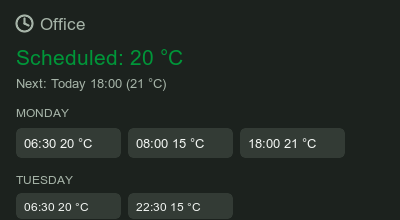
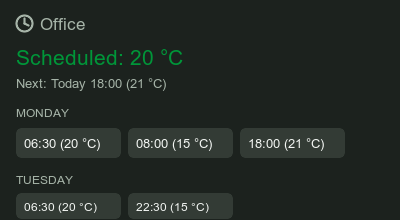
fix(room-schedule): handle live hub heating schedule format

diff --git a/lib/wiser-room-schedule.ts b/lib/wiser-room-schedule.ts
@@ -15,16 +15,15 @@ export interface RoomScheduleDay {
   slots: RoomScheduleSlot[];
 }
 
-function timeMinutes(value: unknown, unit: 'clock' | 'minutes'): number | null {
+function timeMinutes(value: unknown): number | null {
   if (typeof value !== 'number' || !Number.isInteger(value) || value < 0) return null;
-  if (unit === 'minutes') return value < 1440 ? value : null;
   const hours = Math.floor(value / 100);
   const minutes = value % 100;
   return hours < 24 && minutes < 60 ? hours * 60 + minutes : null;
 }
 
-function slot(time: unknown, degrees: unknown, unit: 'clock' | 'minutes'): RoomScheduleSlot | null {
-  const minutes = timeMinutes(time, unit);
+function slot(time: unknown, degrees: unknown): RoomScheduleSlot | null {
+  const minutes = timeMinutes(time);
   if (minutes === null || typeof degrees !== 'number' || !Number.isFinite(degrees)) return null;
   const temperature = validTemperatureFromApi(degrees);
   if (temperature === null && degrees !== -200) return null;
@@ -41,10 +40,10 @@ function daySlots(value: unknown): RoomScheduleSlot[] {
   if (Array.isArray(day.SetPoints)) {
     slots = day.SetPoints.map((item: unknown) => {
       const point = item as Record<string, unknown> | null;
-      return point ? slot(point.Time, point.DegreesC, 'clock') : null;
+      return point ? slot(point.Time, point.DegreesC) : null;
     }).filter((item): item is RoomScheduleSlot => item !== null);
   } else if (Array.isArray(day.Time) && Array.isArray(day.DegreesC)) {
-    slots = day.Time.map((time: unknown, index: number) => slot(time, (day.DegreesC as unknown[])[index], 'minutes'))
+    slots = day.Time.map((time: unknown, index: number) => slot(time, (day.DegreesC as unknown[])[index]))
       .filter((item): item is RoomScheduleSlot => item !== null);
   }
   return slots.sort((a, b) => a.minutes - b.minutes);

diff --git a/test/room-schedule.test.ts b/test/room-schedule.test.ts
@@ -11,8 +11,7 @@ import type { WiserSchedule } from '../lib/wiser-types';
 
 const schedule = {
   id: 3,
-  Type: 'Heating',
-  Monday: { Time: [390, 480, 1080], DegreesC: [210, 150, 200] },
+  Monday: { Time: [630, 800, 1800], DegreesC: [210, 150, 200] },
   Tuesday: { SetPoints: [{ Time: 630, DegreesC: 215 }, { Time: 2230, DegreesC: -200 }] },
 } as WiserSchedule;
 const apiModule: { exports: { getSchedule?: (args: { homey: unknown; params: { deviceId: string } }) => Promise<Record<string, unknown>> } } = { exports: {} };
@@ -39,7 +38,7 @@ function makeHomey(domain: Record<string, unknown> | null, available = true) {
 }
 
 describe('room schedule parsing', () => {
-  it('renders minute-of-day arrays and older clock SetPoints, including Off', () => {
+  it('renders live HHMM arrays and older SetPoints, including Off', () => {
     expect(roomScheduleDays(schedule)).toEqual([
       {
         day: 'Monday',
@@ -70,7 +69,7 @@ describe('room schedule parsing', () => {
   });
 
   it('rejects malformed slots and sorts remaining changes', () => {
-    expect(roomScheduleDays({ id: 1, Monday: { Time: [1080, 1500, 390, 480], DegreesC: [200, 210, 2000, 150] } } as WiserSchedule))
+    expect(roomScheduleDays({ id: 1, Monday: { Time: [1800, 2500, 390, 800], DegreesC: [200, 210, 2000, 150] } } as WiserSchedule))
       .toEqual([{
         day: 'Monday',
         slots: [

diff --git a/widgets/wiser-room-schedule/api.js b/widgets/wiser-room-schedule/api.js
@@ -16,7 +16,7 @@ module.exports = {
     if (!domain) return unavailable();
     const room = domain.Room?.find((item) => item.id === device.getStoreValue('roomId'));
     if (!room) return unavailable();
-    const schedule = domain.Schedule?.find((item) => item.id === room.ScheduleId && item.Type === 'Heating');
+    const schedule = domain.Schedule?.find((item) => item.id === room.ScheduleId && (item.Type == null || item.Type === 'Heating'));
     let nextEvent = null;
     if (schedule) {
       try {

diff --git a/widgets/wiser-room-schedule/public/index.html b/widgets/wiser-room-schedule/public/index.html
@@ -169,7 +169,7 @@
             for (const slot of day.slots) {
               const slotDiv = document.createElement('div');
               slotDiv.className = 'slot ' + (slot.temperature === null ? 'off' : 'on');
-              slotDiv.textContent = slot.time + ' ' + slot.label;
+              slotDiv.textContent = slot.time + ' (' + slot.label + ')';
               slotsDiv.appendChild(slotDiv);
             }
             dayDiv.appendChild(slotsDiv);

diff --git a/docs/widget.md b/docs/widget.md
@@ -81,6 +81,6 @@ The widget reloads every 60 seconds and when the `settings` event fires.
 
 Read-only dashboard widget for a selected Wiser Room. It displays the room's scheduled target temperature, the next scheduled setpoint change, and the weekly heating schedule. It uses `widgets/wiser-room-schedule/widget.compose.json`, `api.js` and `public/index.html`; its device selector filters for `wiser_room_mode`.
 
-The API matches `Homey.getDeviceIds()[0]` against the Room device's Homey ID, reads `store.hubId` and `store.roomId`, and uses only the shared hub cache. An unavailable hub or missing room returns no stale schedule or target. The room's `ScheduleId` selects a `Heating` schedule. `lib/wiser-room-schedule.ts` accepts v2 parallel `Time` (minutes after midnight) and `DegreesC` arrays, and legacy `SetPoints` with HHMM `Time` values. Temperature values are tenths of a degree; `-200` means Off. Invalid slots are skipped and the remaining changes are ordered by time.
+The API matches `Homey.getDeviceIds()[0]` against the Room device's Homey ID, reads `store.hubId` and `store.roomId`, and uses only the shared hub cache. An unavailable hub or missing room returns no stale schedule or target. The room's `ScheduleId` selects its schedule. The live hub omits `Type` on heating schedules, so a missing type is accepted while an explicit non-heating type is rejected. `lib/wiser-room-schedule.ts` accepts v2 parallel `Time` (HHMM) and `DegreesC` arrays, and legacy `SetPoints` with HHMM `Time` values. Temperature values are tenths of a degree; `-200` means Off. Invalid slots are skipped and the remaining changes are ordered by time.
 
 The next change is found by scanning the weekly schedule in Homey's timezone, including day and week rollover. A timezone error leaves the weekly slots visible and labels the next change `Timezone unavailable`. The widget refreshes every 60 seconds and on settings changes. It requests 240px height and scrolls the schedule area. It never writes to the hub. Live widget selection, layout and time values still need checking on Homey.
